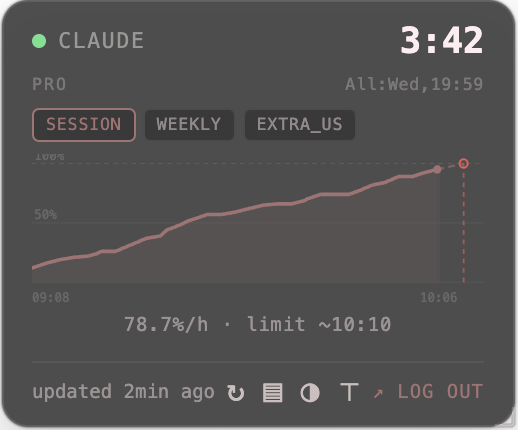
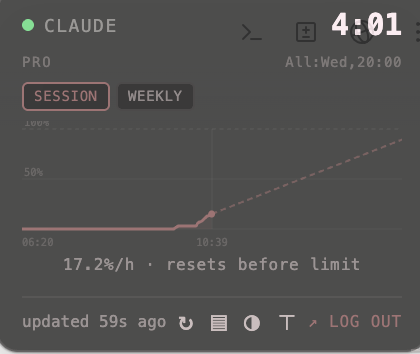
docs: refresh Features list and screenshots to match current widget
Features now cover the promo/base credits split, model-bucket
advisory, per-bucket history chips with pace multiplier, and credits
spend notifications — all real capabilities missing from the old
list. Tray menu table gains the Copy Raw Usage JSON and About Claude
Bar rows. Screenshots replaced with current captures for all three
themes, main and history screens.

diff --git a/README.md b/README.md
@@ -14,11 +14,13 @@ A transparent floating widget for macOS that tracks your Claude.ai usage limits 
 
 ## Features
 
-- **Usage history & sparkline** — click `∿` to see a 48 h sparkline per limit (SESSION / WEEKLY) with burn rate (`78.7%/h`), a forecast line, and a red marker at the projected limit time
+- **Real-time usage bars** — Session (5 h) and Weekly (7 d), plus any extra per-model/feature bucket the API reports (e.g. the Sonnet/Opus split on Max plans); new buckets show up automatically as Anthropic adds them, and pre-launch API fields that don't carry a real quota yet stay hidden until they do
+- **Usage credits** — the perishable part of your balance (a promotional grant) is shown separately from the standing balance, each with its own expiry date, instead of one lump sum that hides how much is about to evaporate; falls back to a plain monthly-spend readout on accounts without a wallet balance
+- **Model-bucket advisory** — a one-line hint when Sonnet and Opus usage diverge meaningfully, pointing at which pool still has headroom (Max plans only)
+- **Usage history & sparkline** — click `∿` for a 48 h sparkline per bucket (a chip per bar — Session, Weekly, and any others present) with burn rate (`%/h`), a forecast line to the projected limit-hit time, and a pace multiplier against the rate that would land exactly on reset (weekly bars)
 - **Usage % in the menubar** — the tray icon shows the Session limit percentage right next to it, so you don't even need the widget on screen
-- **Threshold notifications** — system notification when any limit crosses 80% / 95%, and when the session resets (both toggleable in the tray menu)
+- **Threshold notifications** — system notification when any usage bar (or the usage-credits spend) crosses 80% / 95%, when the session resets, and when the credits spend limit is actually hit (all toggleable in the tray menu)
 - **Always on top** — borderless, semi-transparent widget that stays above all windows; click `⊤` to send it to the background, `⊥` to pin it back — choice persists across restarts
-- **Real-time usage bars** — session, weekly, and per-model limits with color coding
 - **Plan detection** — automatically reads your plan (Free, Pro, Max, Team, Enterprise) from the API
 - **Smart colors** — blue → yellow → red as limits fill up (0–34% / 35–79% / 80–100%)
 - **3 color themes** — Dark, Light, and Mauve — click `◑` in the footer to cycle; choice persists across restarts
@@ -63,7 +65,9 @@ Left-click the tray icon to show/hide the widget. Right-click to access:
 | Notify at 80% / 95% | Toggle threshold notifications |
 | Notify on Session Reset | Toggle "you can work again" notification |
 | Launch at Login | Start Claude Bar automatically on login |
+| Copy Raw Usage JSON | Copy the last poll's unprocessed API response to the clipboard (debugging) |
 | Check for Updates… | Download and install the latest release automatically |
+| About Claude Bar | Version, Electron/Chromium version, and a link to the GitHub repo |
 | Quit | Exit the app |
 
 ## Themes
